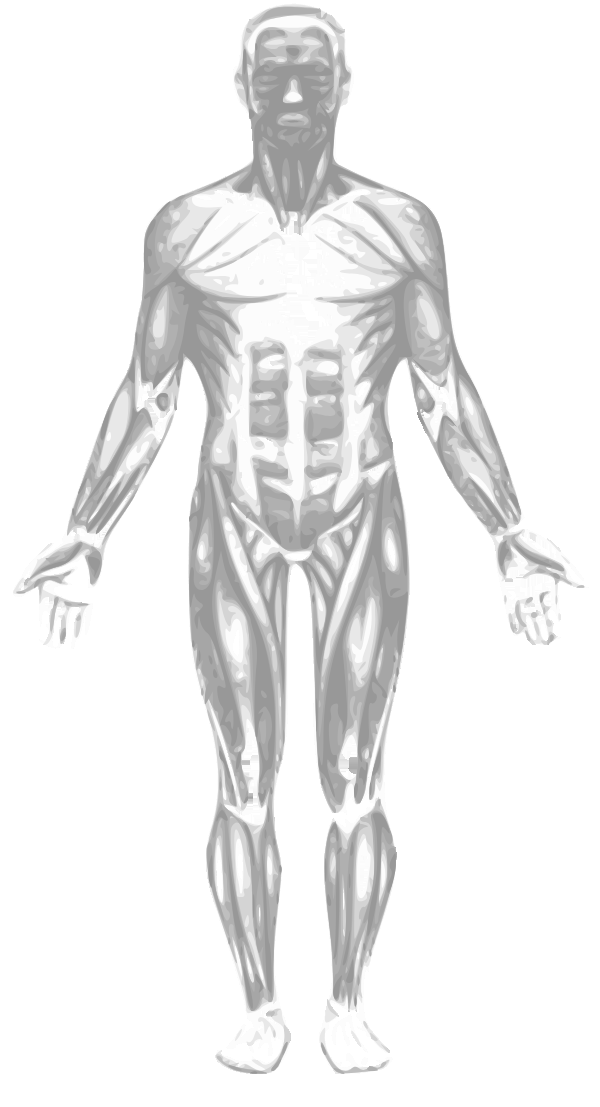
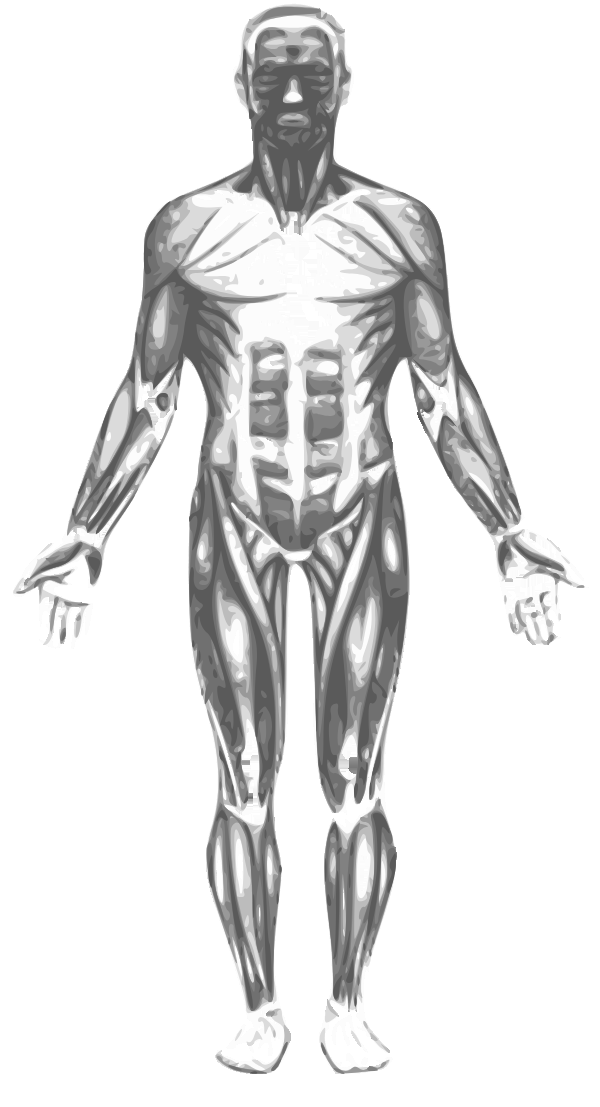
Increase muscle diagram contrast so separations read as bold, not washed out
outMin=152 compressed all shading into a narrow bright band, so muscle
separations (pecs, abs, deltoid) read as flat and low-contrast. Dropping
it to 90 keeps the same bright highlights but restores real shadow depth,
regenerated the gap-fill backdrop to match.

diff --git a/src/components/MuscleAnalytics/muscleBodyShapes.js b/src/components/MuscleAnalytics/muscleBodyShapes.js
@@ -37,22 +37,23 @@ import bodyBackFillUrl from './assets/body-back-fill.png'; // Gap-filled backdro
 // figure — the face especially, whose features use the darkest tones and
 // merge into one dark mass at phone size.
 //
-// This rescales every grey fill from the file's own range into a bright band,
-// so the figure reads as pale near-white muscle with grey shading (and the
-// artwork's transparent gaps reading as the dark separations between muscle
-// groups — the artwork was drawn for a light background, so those gaps are
-// its line work).
+// This rescales every grey fill from the file's own range into a band that
+// still reads as pale muscle overall (bright highlights, outMax=252) but
+// keeps real shadow depth (outMin=90) instead of crushing everything into a
+// narrow bright band — a first pass at outMin=152 made every shading
+// transition low-contrast, so the muscle separations (pecs, abs, deltoid)
+// read as flat/washed-out instead of defined. The artwork's transparent
+// gaps read as the darkest separations between muscle groups — the artwork
+// was drawn for a light background, so those gaps are its line work.
 //
-// A per-file LEVELS remap rather than a fixed gamma curve, for two reasons:
-// the two files have different input ranges (front starts at 48, back at 25),
-// so normalising each into the same output band keeps the two views
-// consistent — a gamma curve left the back view's darkest tone at 116, still
-// murky, while the front's floor was 145. It also keeps brighter highlights
-// (252 vs gamma's 238) for the near-white look.
+// A per-file LEVELS remap rather than a fixed gamma curve, since the two
+// files have different input ranges (front starts at 48, back at 25);
+// normalising each into the same output band keeps the two views
+// consistent.
 //
 // Applied once at module load (not per render) to the raw SVG text; the
 // vendored files themselves stay untouched on disk.
-const BODY_TONE_OUT_MIN = 152; // darkest shading
+const BODY_TONE_OUT_MIN = 90; // darkest shading
 const BODY_TONE_OUT_MAX = 252; // brightest highlight
 
 function lightenGreys(svgText, outMin = BODY_TONE_OUT_MIN, outMax = BODY_TONE_OUT_MAX) {
